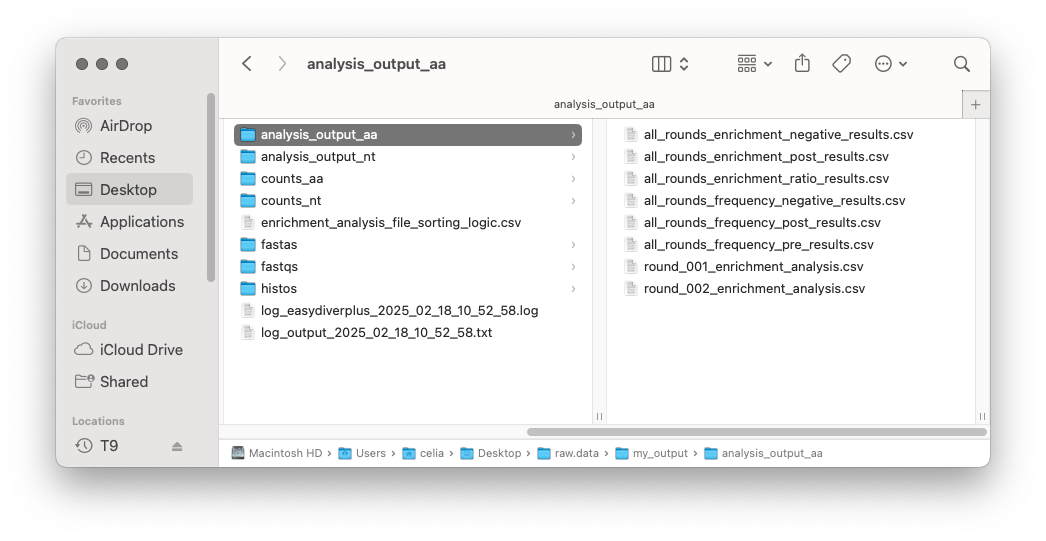
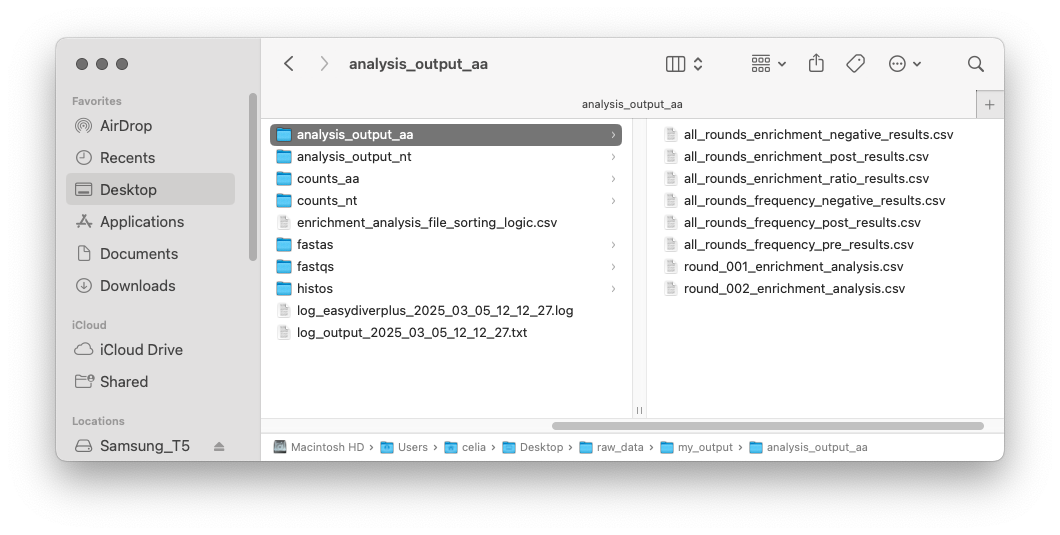
updated pics in manual

diff --git a/docs/source/usage.rst b/docs/source/usage.rst
@@ -6,11 +6,16 @@ Input requirements
 
 All input files must be:
     
-1. Located in the same directory (even reads from separate lanes).
+1. Located in the same directory (even reads from separate lanes). 
+   See the box below for important notes on directory naming conventions to prevent processing errors.
 2. In FASTQ format
 3. Named using the standard Illumina naming scheme: sample-name_S#_L00#_R#_001.fastq
 4. In either .fastq or .fastq.gz extensions.
 
+.. note::
+   Please ensure that the directory names used for input and output do not contain spaces or special characters. 
+   These can cause unexpected errors during file handling. 
+   For best results, use underscores (_) or hyphens (-) to separate words in directory names instead of spaces.
 
 How to process and analyze data
 -------------------------------
